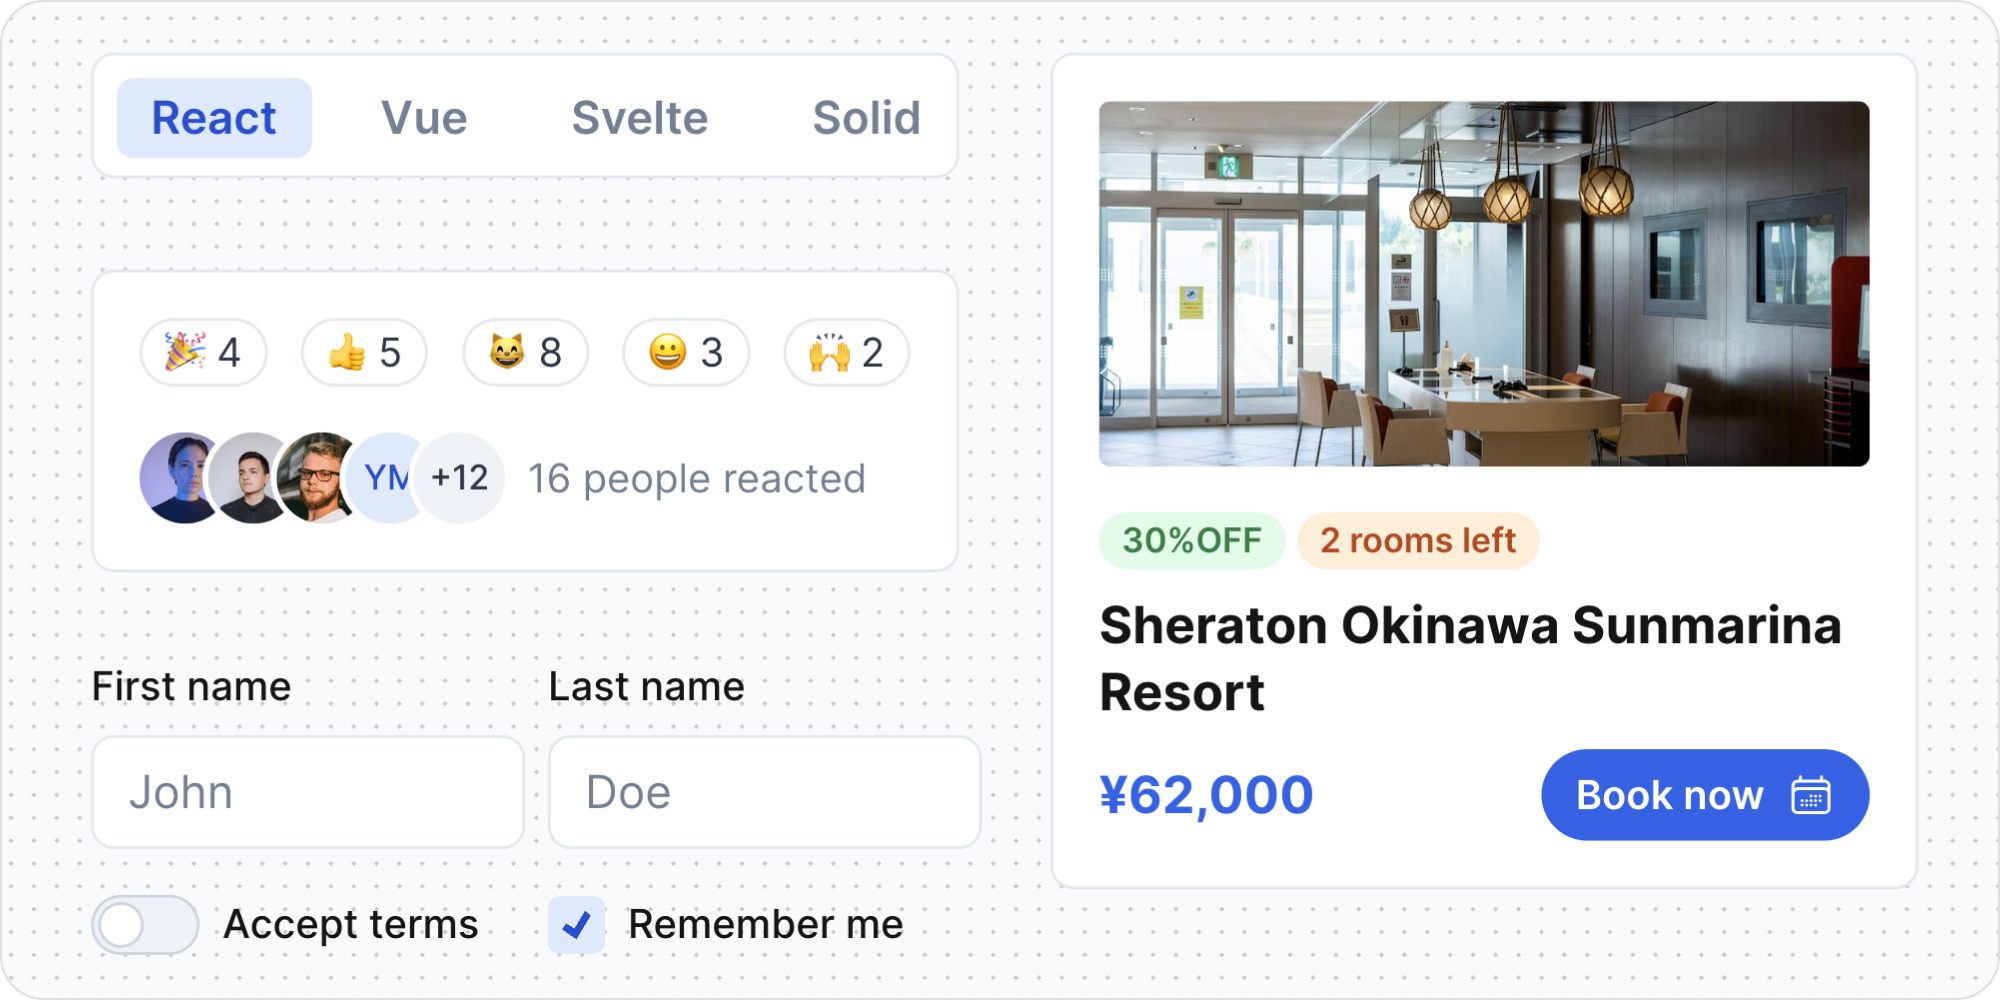
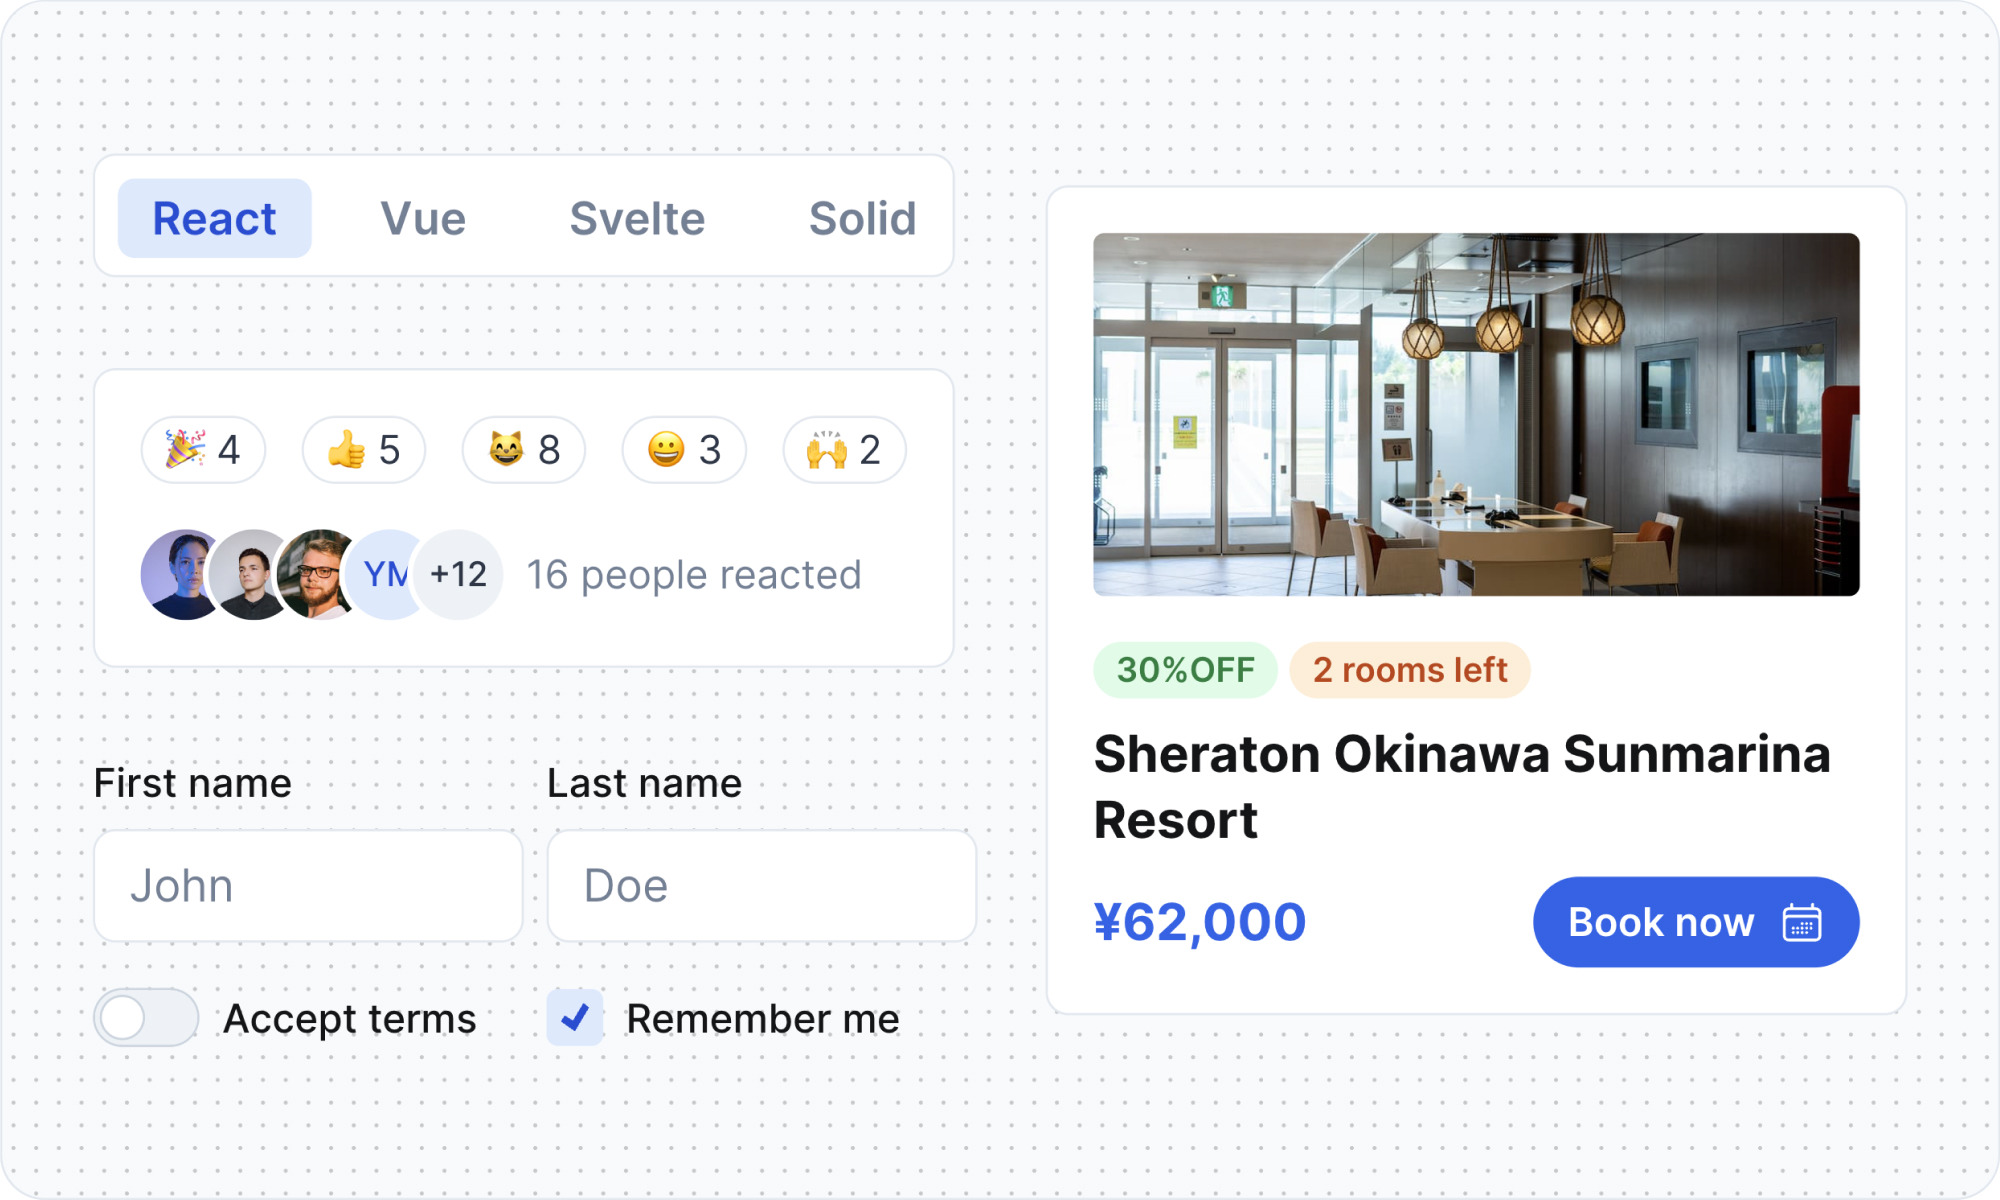
workの画像アスペクト比を変更

diff --git a/src/components/work/card.tsx b/src/components/work/card.tsx
@@ -12,8 +12,8 @@ type Props = {
 
 export function WorkCard({ as: Component = "h3", work }: Props) {
   return (
-    <article className="relative flex flex-col hover:bg-slate-100 p-3 -m-3 rounded-lg">
-      <div className="relative aspect-[2/1] rounded-md overflow-clip">
+    <article className="relative flex flex-col ring-gray-100 hover:ring-2 p-3 -m-3 rounded-lg">
+      <div className="relative aspect-[5/3] rounded-md overflow-clip">
         <Image
           alt={work.title}
           className="object-cover"
